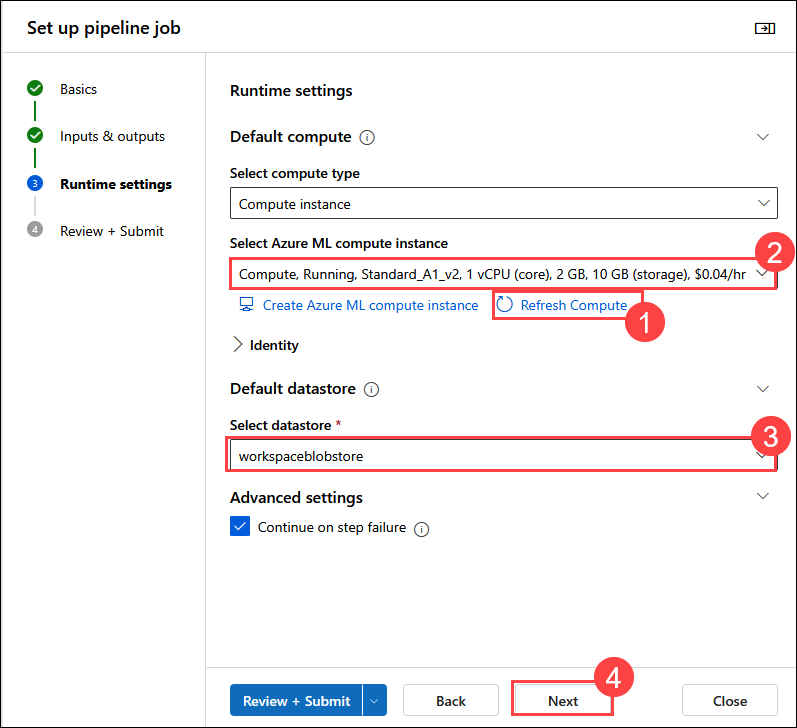
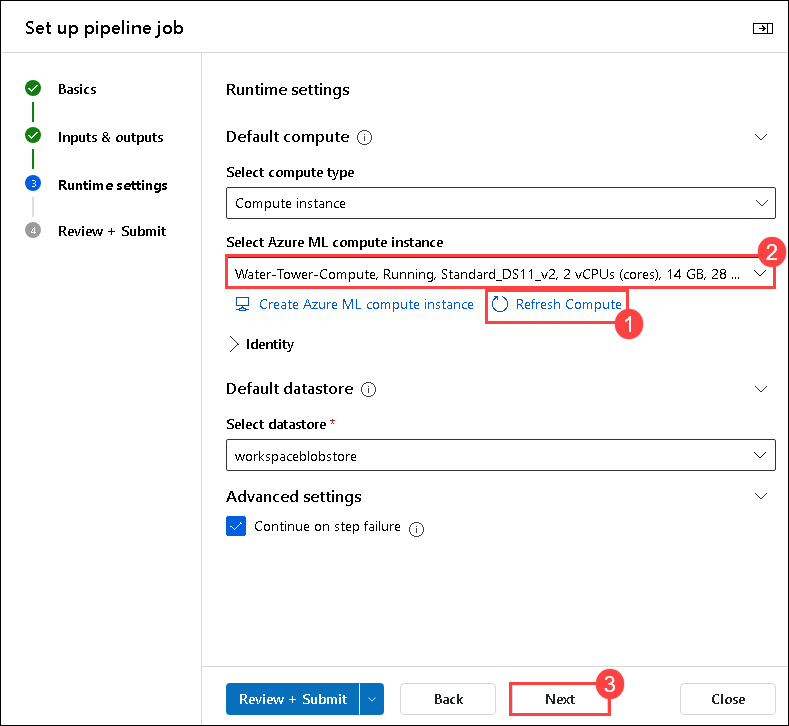
updated lesson5

diff --git a/Instructions/Labs/SREB-Year2/Lesson05/L05_U01.md b/Instructions/Labs/SREB-Year2/Lesson05/L05_U01.md
@@ -48,7 +48,9 @@ In this task,
 
     ![](../images/L05-01.png)
 
-1. Wait for the Machine learning workspace to be created. Once it is created, navigate to **WaterTowerAnalysis** workspace. 
+1. Wait for the Machine learning workspace to be created. Once it is created, from the left navigation pane, select **Workspaces (1)** and then click on workspace **WaterTowerAnalysis (2)**.
+
+    ![](../images/L05-01.1.png)
 
 1. Select **Designer (1)** from the left navigation menu, then under the **New pipeline** section (Classic prebuilt), click **+ Create a new pipeline using classic prebuilt components (2)**.
 
@@ -199,18 +201,18 @@ In this task,
 1. In the **Create compute instance** pane, under the **Configure required settings** section, enter the following details:
 
     - **Compute name:** `Water-Tower-Compute` **(1)**
-    - **Virtual machine size:** choose *Select from all options* **(2)**
-    - **Virtual machine:** choose *Standard_A1_v2* **(3)**
+    - **Virtual machine size:** choose *Select from recommended options* **(2)**
+    - **Virtual machine:** choose *Standard_DS11_v2* **(3)**
     - Click on **Review + Create (4)**
 
-    ![](../images/L05-37.png)
+    ![](../images/L05-37-new.png)
 
 1. Review the settings of compute instance and click on **Create**.
     > **Note:** Deployment of compute instance will take 5-10 minutes.
 
     ![](../images/L05-38.png)
 
-1. Once the compute instance is deployed and running, click on **Refresh Compute (1)** and select **Water-Tower-Compute (2)** instance. Select default datastore as **workspaceblobstore (3)** and click on **Next (4)**.
+1. Once the compute instance is deployed and running, click on **Refresh Compute (1)** and select **Water-Tower-Compute (2)** instance. Click on **Next (3)**.
 
     ![](../images/L05-39.png)
 
